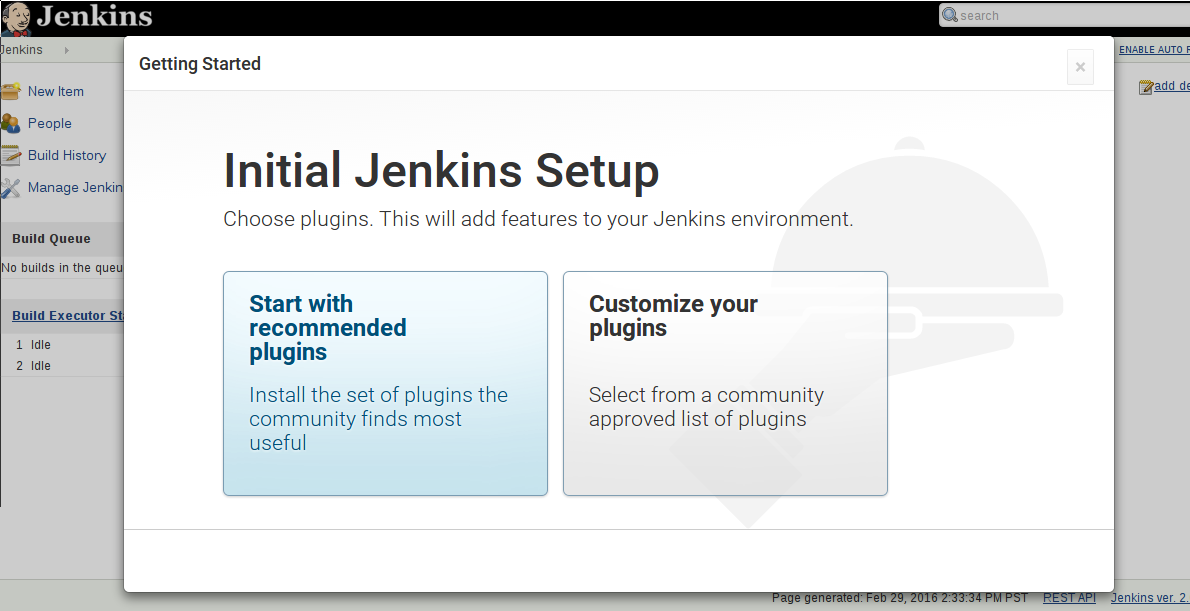
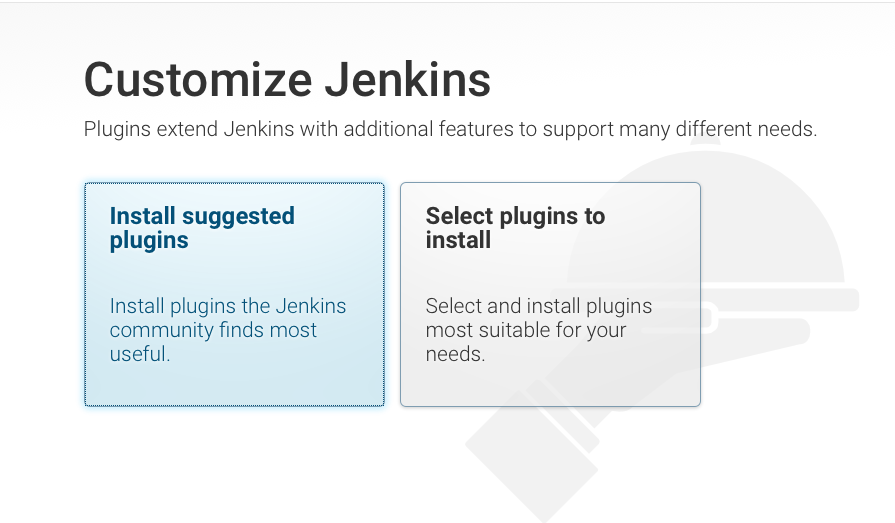
Add content for 2.0-alpha-3

diff --git a/content/blog/2016/2016-03-11-new-jenkins-20-preview.md b/content/blog/2016/2016-03-11-new-jenkins-20-preview.md
@@ -1,0 +1,40 @@
+---
+layout: post
+title: "New Jenkins 2.0 Preview Build"
+tags:
+- jenkins2
+author: daniel-beck
+---
+
+We just published the new Jenkins 2.0 preview build alpha 3.
+
+## What's new?
+
+* **Jenkins is now secure out of the box**:
+  Administrators previous had to set up authentication and authorization while Jenkins was accessible to anyone on the same network.
+  Now, Jenkins is protected out of the box, so that it is always safe from unauthorized access.
+* **Plugin selection for setup**:
+  We refined the plugin selection on the setup dialog.
+  You've always wondered why Jenkins does not install the Git Plugin by default?
+  Now it does.
+  We're also including more plugins improving [Pipeline](/solutions/pipeline/):
+  The [Pipeline Stage View](https://wiki.jenkins-ci.org/display/JENKINS/Pipeline+Stage+View+Plugin) plugin lets you quickly see what's going on in your CD pipeline, and the [GitHub Organization Folder Plugin](https://github.com/jenkinsci/github-organization-folder-plugin#github-organization-folder) allows you to set up a job container that automatically sets itself up with jobs for all Jenkins pipelines defined in any repo of your GitHub organization.
+* **Redesigned job configuration forms**:
+  The job configuration form has been redesigned so its structure is visually clear when showing complex configuration forms.
+  Additionally, the tabs on the top of the page show where you are, and can be used to quickly navigate between the different sections of the configuration form.
+
+## Download now!
+
+[Get Jenkins 2.0 alpha 3 now](/2.0/), and tell us what you think:
+
+If you use Twitter, you can leave us some feedback [on Twitter](https://twitter.com/intent/tweet?text=@jenkinsci%20I%20think%20%23jenkins2%20is%20).
+
+Our [jenkinsci-users](http://groups.google.com/group/jenkinsci-users/topics) mailing list is also available for feedback in [this thread](https://groups.google.com/d/msg/jenkinsci-users/fEWFVUj0UVY/GbG0ChvkIgAJ).
+
+And of course, since this is a preview release, if you find any issues please report them on our [issue tracker](https://wiki.jenkins-ci.org/display/JENKINS/Issue+Tracking) to the *JENKINS* project.
+
+## Known issues
+
+* Some plugins with dependencies to previously bundled plugins fail to load or work correctly.
+Install Mailer Plugin, Matrix Project Plugin, JUnit Plugin, and Maven Integration Plugin from the Plugin Manager and restart Jenkins.
+* The configuration forms sometimes fail to apply the new design and tabbed navigation. If this happens, just reload the page.
